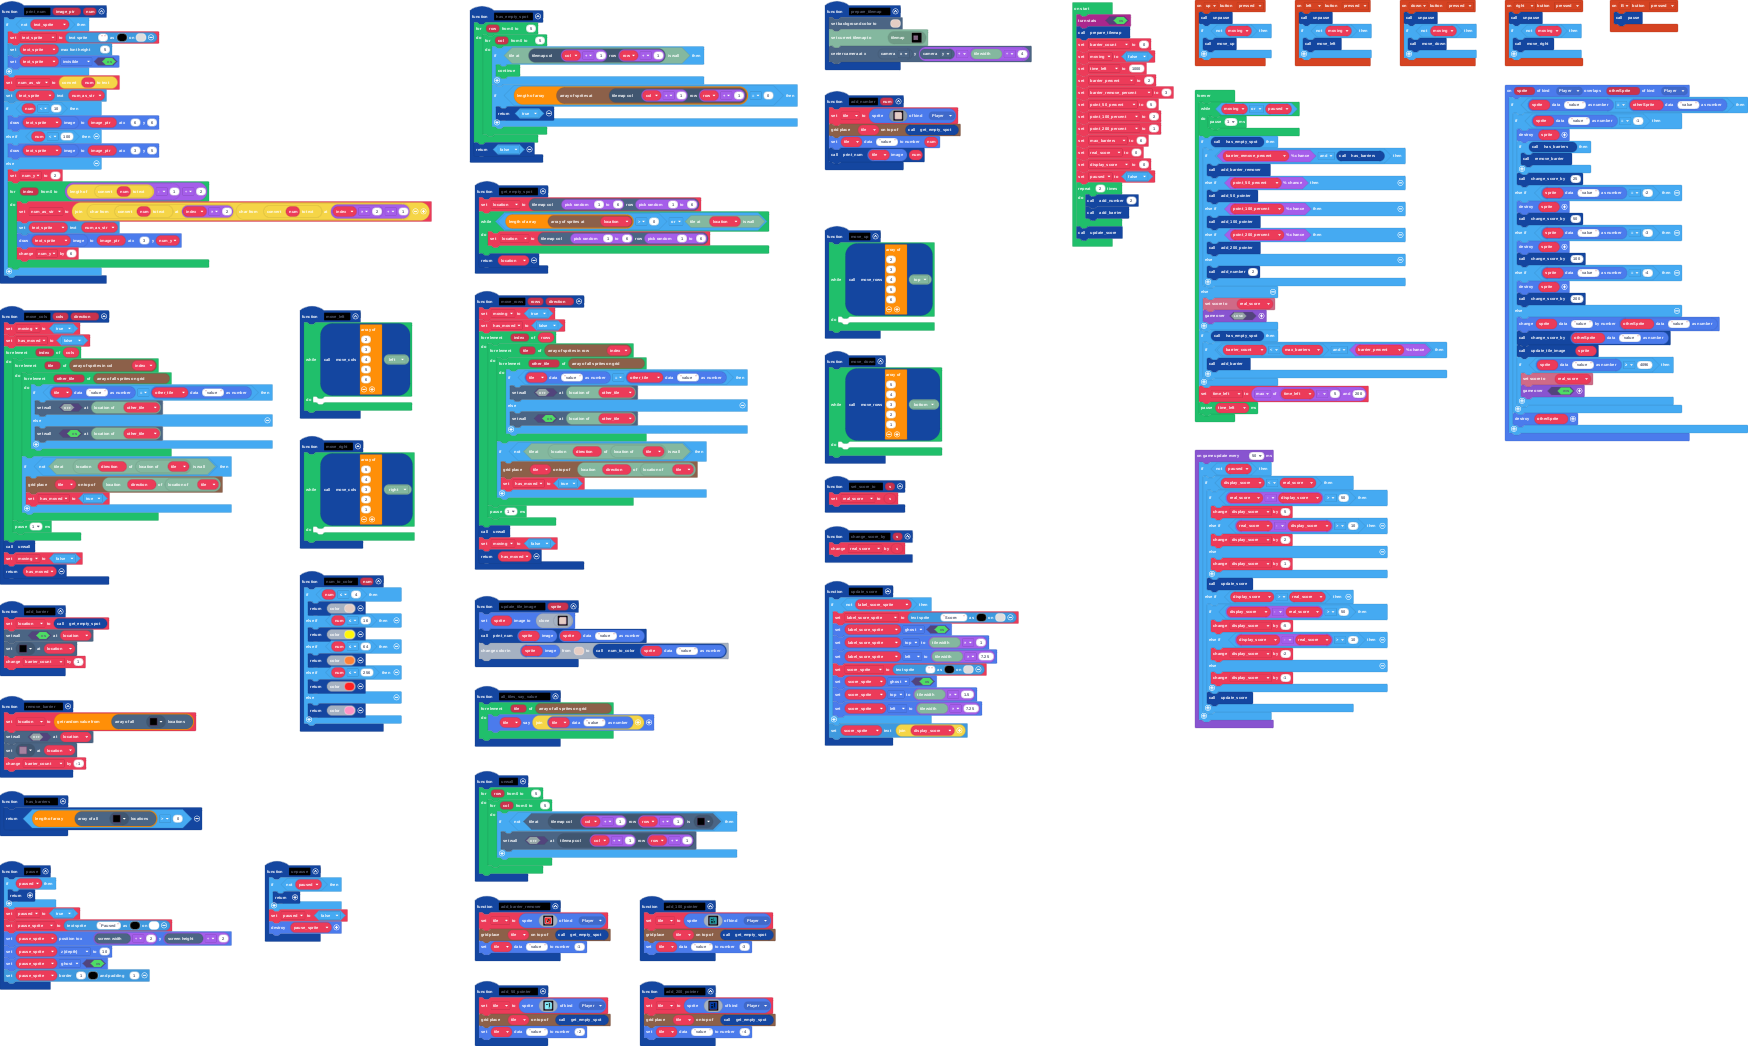
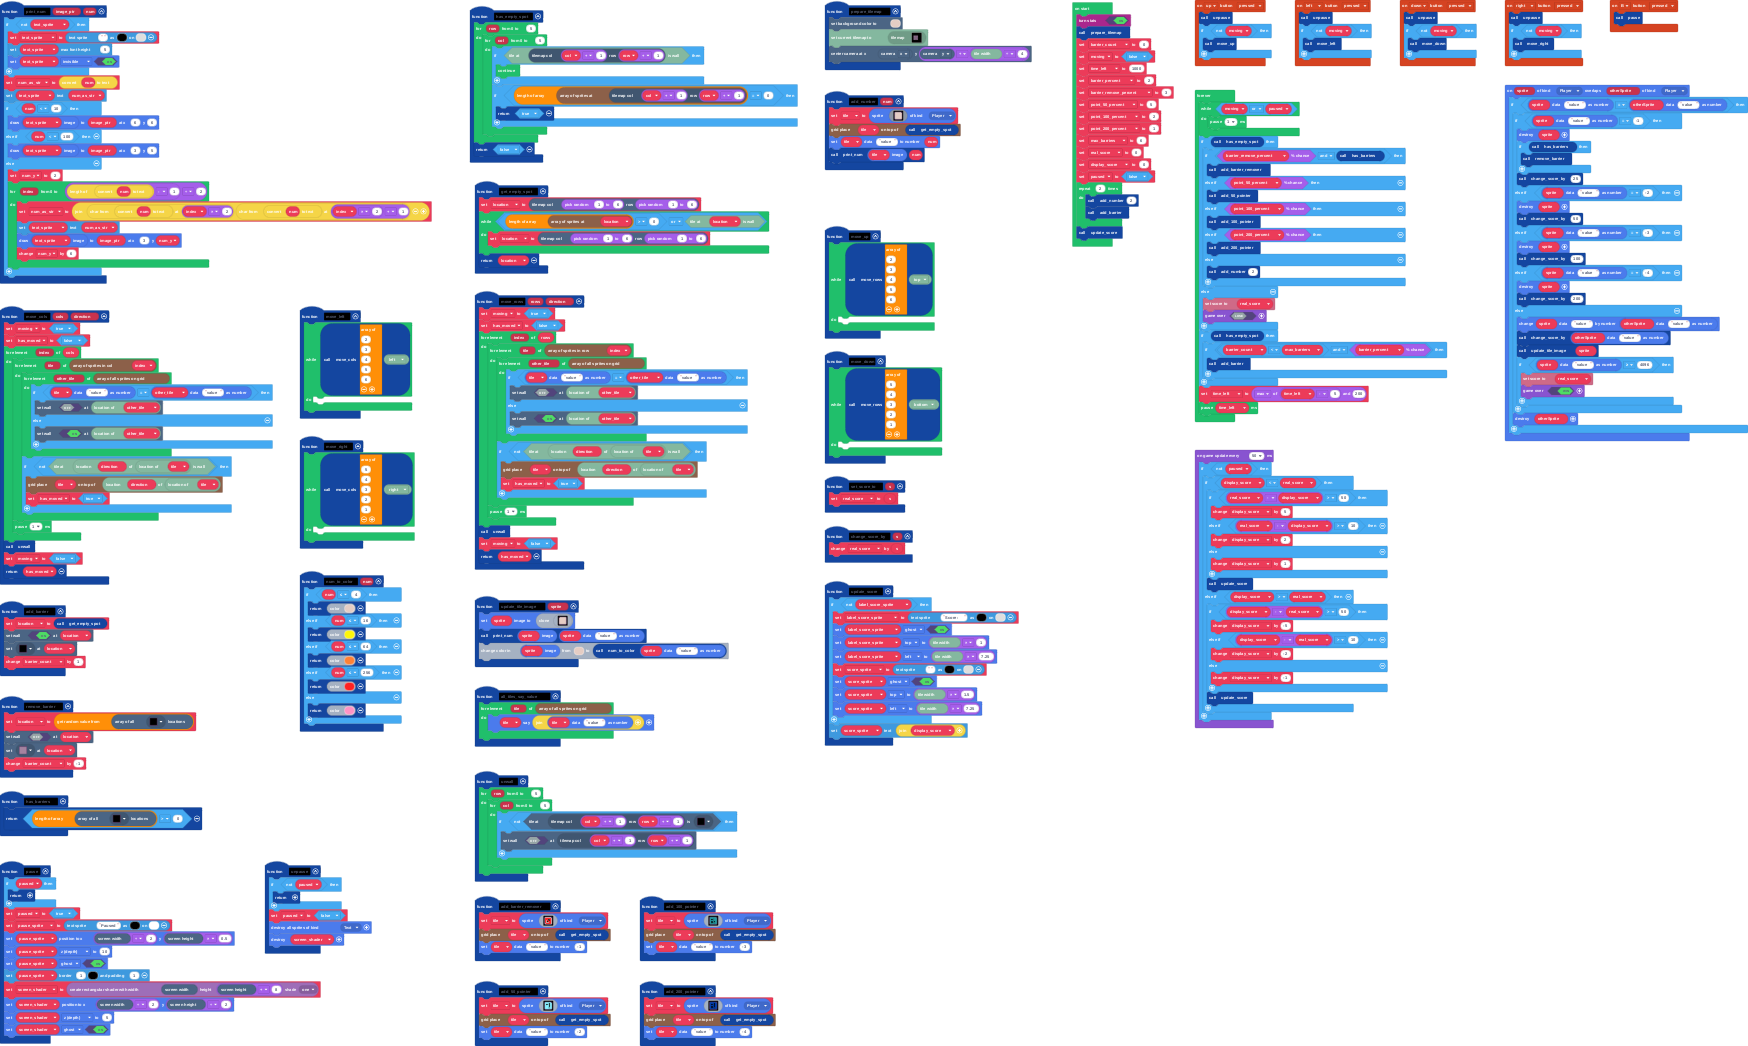
Fancier pause screen

Changed region(s): [[0.0, 0.8566, 0.2162, 1.0]]

diff --git a/main.ts b/main.ts
@@ -128,10 +128,14 @@ function pause2 () {
     }
     paused = true
     pause_sprite = textsprite.create("Paused", 1, 15)
-    pause_sprite.setPosition(scene.screenWidth() / 2, scene.screenHeight() / 2)
+    pause_sprite.setPosition(scene.screenWidth() / 2, scene.screenHeight() * 0.5)
     pause_sprite.z = 10
     pause_sprite.setFlag(SpriteFlag.Ghost, true)
     pause_sprite.setBorder(1, 15, 1)
+    screen_shader = shader.createRectangularShaderSprite(scene.screenWidth(), scene.screenHeight() + 8, shader.ShadeLevel.One)
+    screen_shader.setPosition(scene.screenWidth() / 2, scene.screenHeight() / 2)
+    screen_shader.z = 5
+    screen_shader.setFlag(SpriteFlag.Ghost, true)
 }
 function update_score () {
     if (!(label_score_sprite)) {
@@ -151,7 +155,8 @@ function unpause () {
         return
     }
     paused = false
-    pause_sprite.destroy()
+    sprites.destroyAllSpritesOfKind(SpriteKind.Text)
+    screen_shader.destroy()
 }
 function move_left () {
     while (move_cols([
@@ -306,6 +311,7 @@ let num_as_str = ""
 let text_sprite: TextSprite = null
 let score_sprite: TextSprite = null
 let label_score_sprite: TextSprite = null
+let screen_shader: Sprite = null
 let pause_sprite: TextSprite = null
 let location: tiles.Location = null
 let has_moved = false
